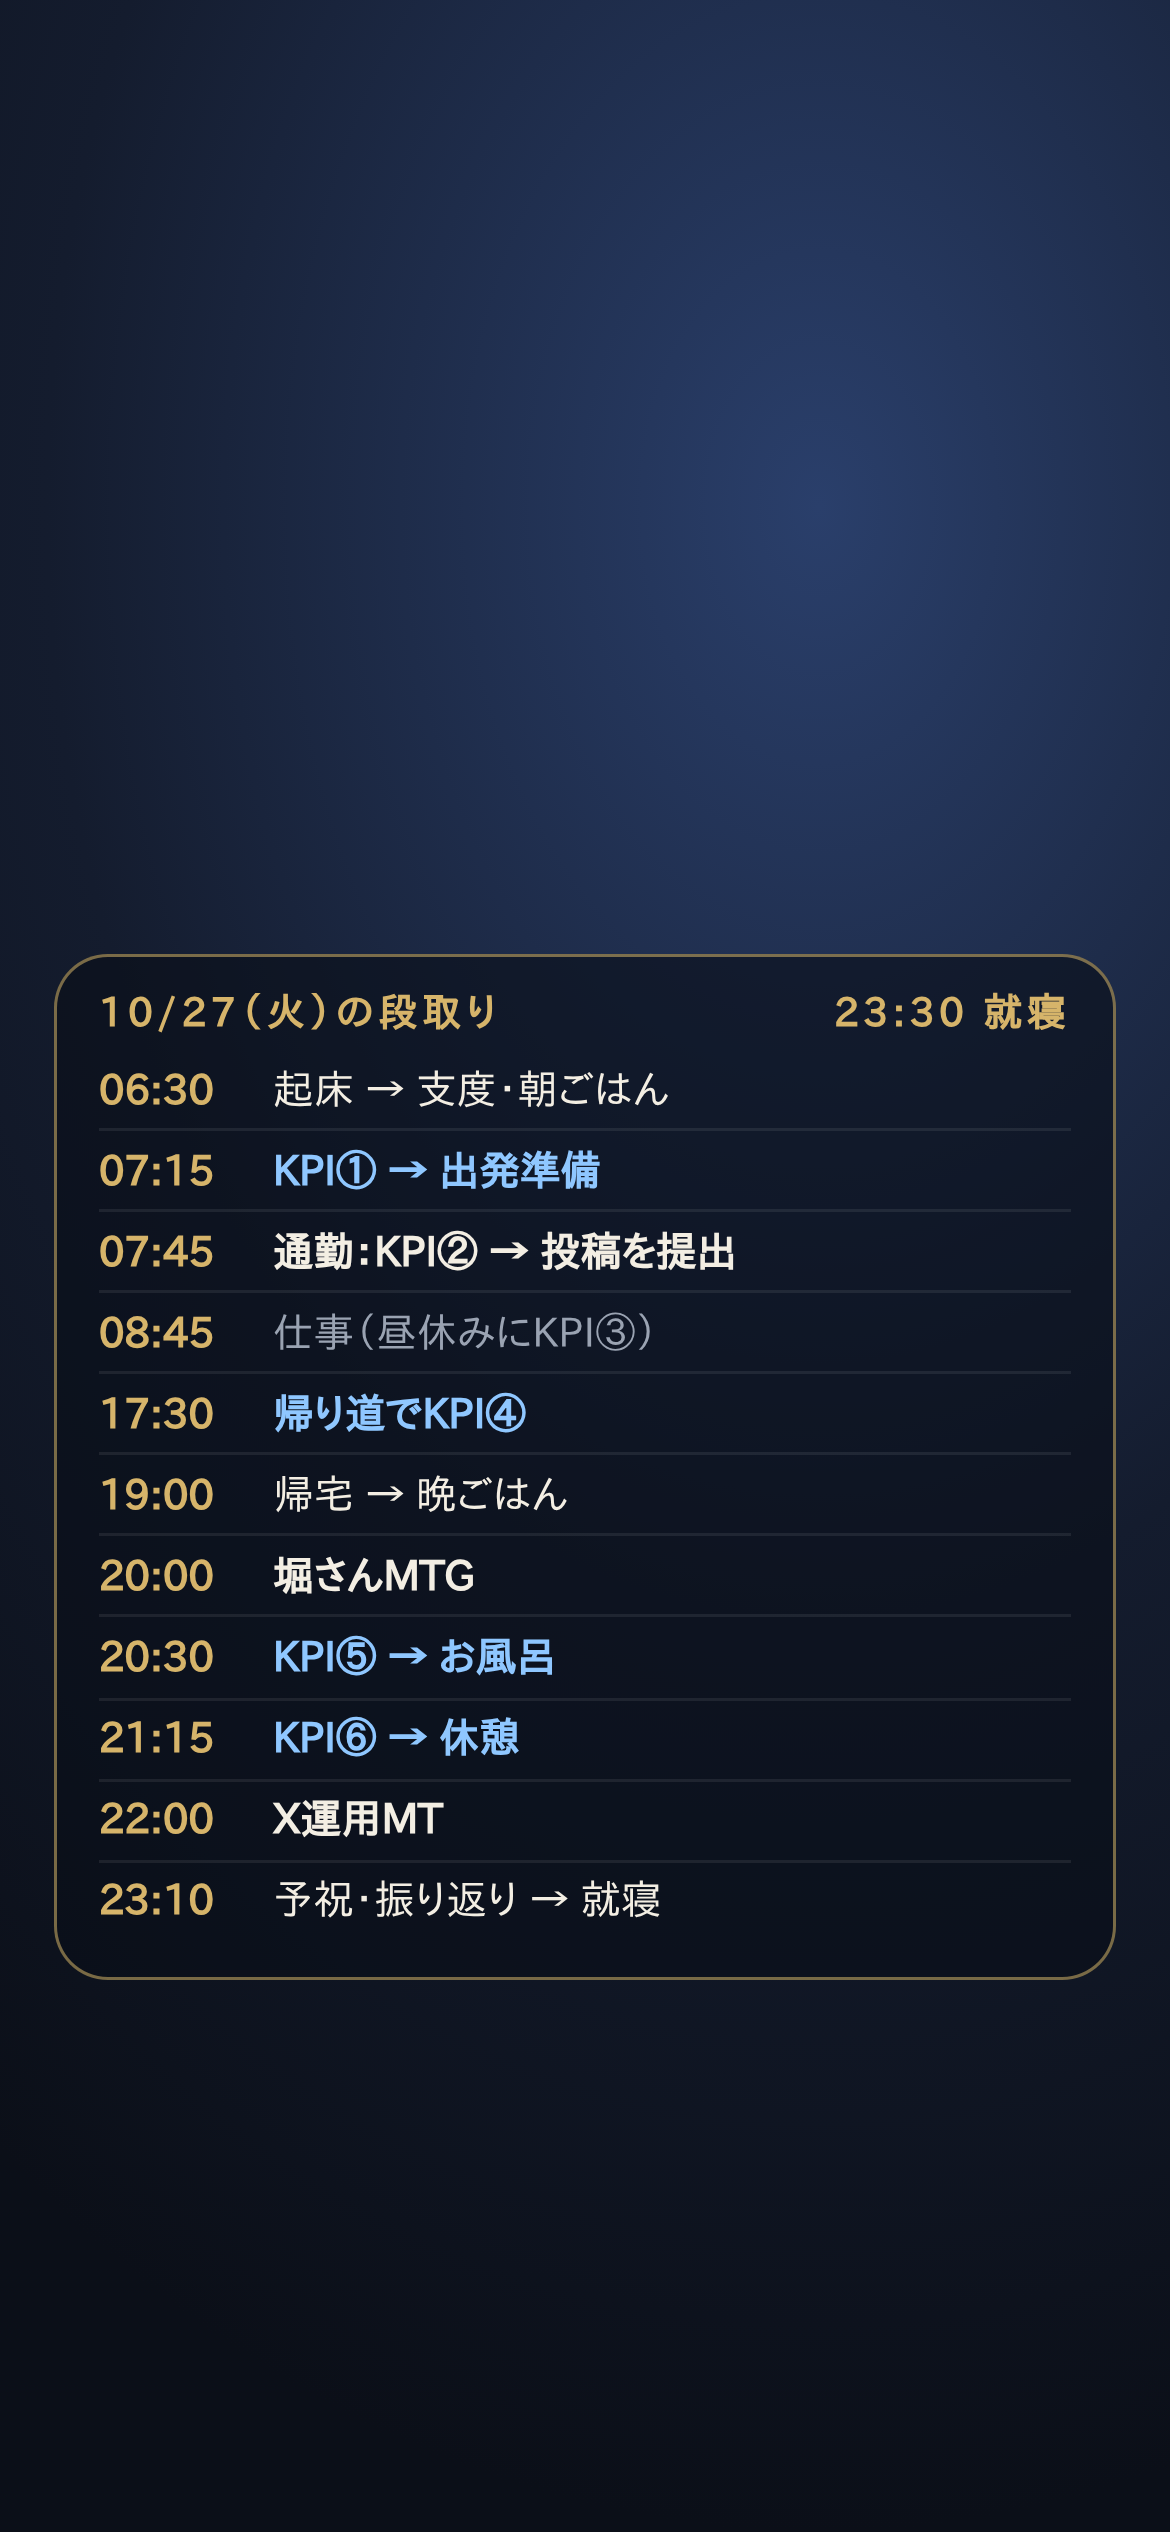
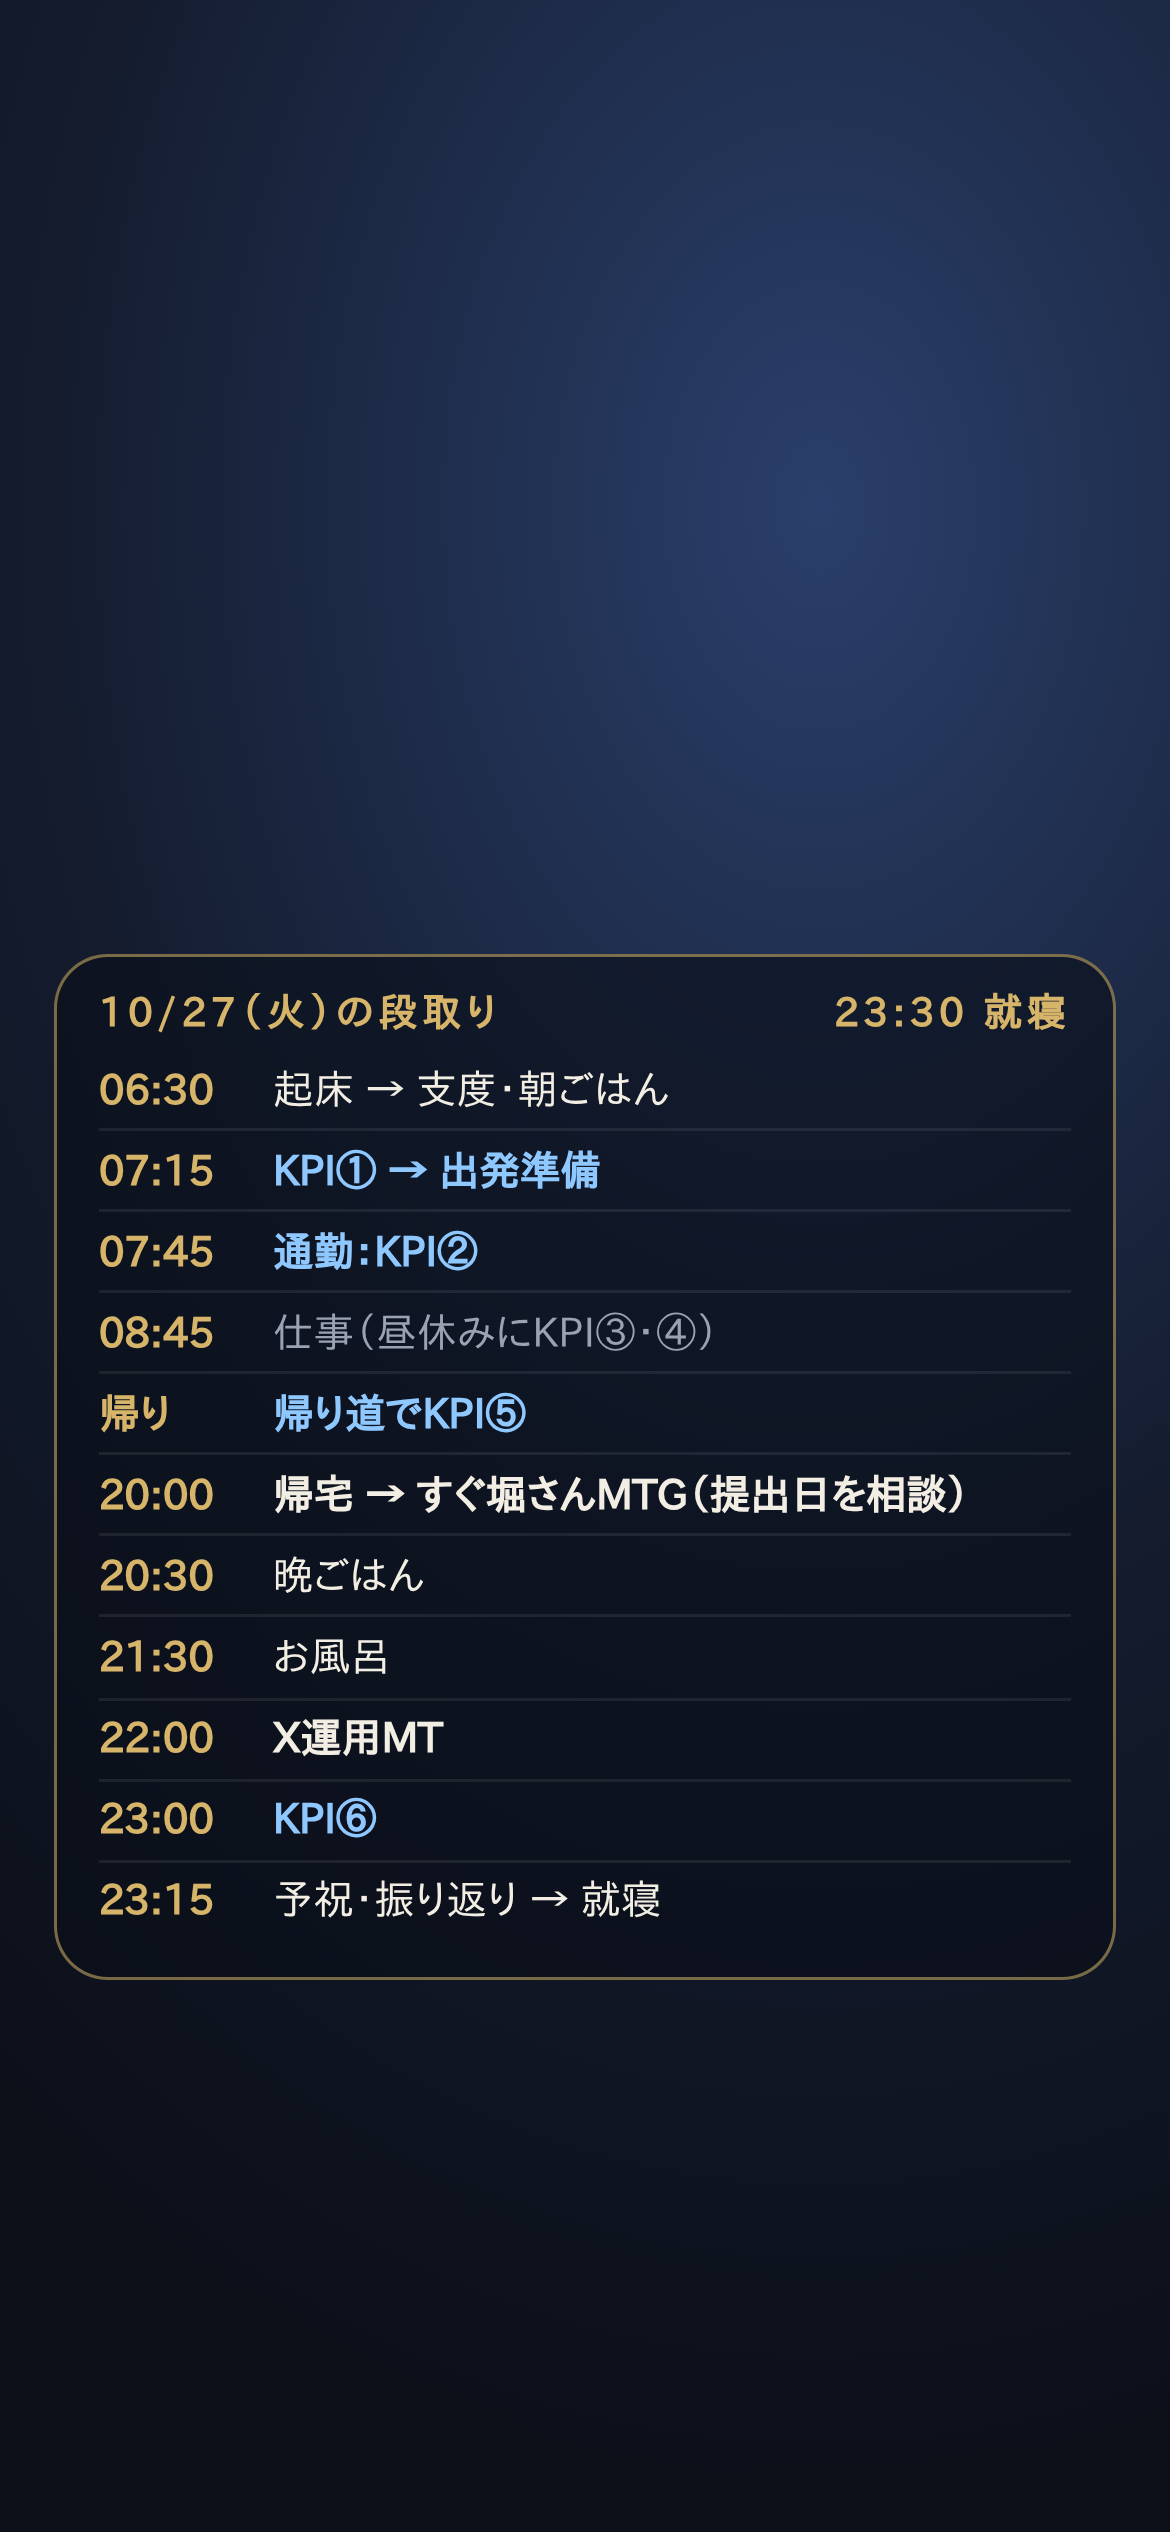
10/27 段取りを20時帰宅に合わせて更新、投稿提出日の相談を記録
Claude-Session: https://claude.ai/code/session_01U8582CXgJcTRPR8mqEQHmZ

diff --git a/secretary/brief/index.html b/secretary/brief/index.html
@@ -67,24 +67,24 @@ ul{list-style:none;margin:0;padding:0;display:flex;flex-direction:column;gap:2px
   "date": "2026-10-27",
   "label": "10/27（火）",
   "wake": "6:30",
-  "updated": "前夜22:00作成",
-  "lead": "朝に投稿を提出。夜は20時堀さん・22時X運用MT",
+  "updated": "10/26 夜に更新（20時帰宅）",
+  "lead": "夜は投稿の時間ゼロ。堀さんMTGで提出日を相談",
   "must": [
     {
-      "id": "post",
-      "label": "投稿（10/28分）を提出",
-      "note": "仕上げが残れば通勤中に",
-      "when": "朝の通勤"
+      "id": "ask",
+      "label": "堀さんに投稿の提出日を相談",
+      "note": "「10/28夜に提出」でよいか",
+      "when": "20:00"
     },
     {
       "id": "kpi",
       "label": "KPI 15フォロー・20リプ（6枠）",
-      "note": "",
+      "note": "昼休みに2枠",
       "when": "6枠"
     },
     {
       "id": "mtg",
-      "label": "20:00 堀さんMTG／22:00 X運用MT",
+      "label": "22:00 X運用MT",
       "note": "",
       "when": "夜"
     }
@@ -98,42 +98,42 @@ ul{list-style:none;margin:0;padding:0;display:flex;flex-direction:column;gap:2px
     },
     {
       "s": "07:45",
-      "e": "08:45",
-      "label": "通勤",
-      "task": "KPI②→投稿を提出",
-      "kind": "must"
-    },
-    {
-      "s": "08:45",
       "e": "17:30",
-      "label": "仕事",
-      "task": "昼休みにKPI③"
+      "label": "通勤KPI②→仕事",
+      "task": "昼休みにKPI③・④"
     },
     {
       "s": "17:30",
       "e": "20:00",
-      "label": "帰り道KPI④→晩ごはん",
-      "task": ""
+      "label": "帰り道でKPI⑤",
+      "task": "20時帰宅"
     },
     {
       "s": "20:00",
-      "e": "22:00",
+      "e": "20:30",
       "label": "堀さんMTG",
-      "task": "→KPI⑤・お風呂・KPI⑥"
+      "task": "提出日を相談",
+      "kind": "must"
+    },
+    {
+      "s": "20:30",
+      "e": "22:00",
+      "label": "晩ごはん→お風呂",
+      "task": ""
     },
     {
       "s": "22:00",
       "e": "23:30",
       "label": "X運用MT",
-      "task": "23:10 予祝→就寝"
+      "task": "23:00 KPI⑥→23:15 予祝"
     }
   ],
   "deadlines": [
     {
-      "d": "10/27（火）",
-      "label": "投稿（10/28分）提出",
-      "prep": "朝の通勤中に",
-      "days": 0
+      "d": "10/28（水）夜",
+      "label": "投稿を提出（相談後）",
+      "prep": "19時帰宅後に約2.5時間",
+      "days": 1
     },
     {
       "d": "10/31（土）20:00",
@@ -155,7 +155,7 @@ ul{list-style:none;margin:0;padding:0;display:flex;flex-direction:column;gap:2px
       "mins": 2
     }
   ],
-  "tomorrow": "<b>明日 10/28（水）</b> 8:45出勤。堀さんと投稿の修正日"
+  "tomorrow": "<b>明日 10/28（水）</b> 19時帰宅→投稿を仕上げて提出"
 }</script>
 
 <script>

diff --git a/secretary/tasks.md b/secretary/tasks.md
@@ -87,6 +87,8 @@
 | 👤 かよ社長の宿題 | 2時間 | 10/31（土）20:00 MTGかよさん | 10/11は見送り（代表判断）→ 10/20（火）夜1h → 10/21（水）夜1h |
 | 🤖 アウトプット会の解像度を上げる（担当: 戦略責任者） | 代表は確認15分 | — | 戦略責任者が「目的・対象・形式・初回案」の下書きを作成 → 10/22（木）帰りの電車で確認 |
 
+- 📌 10/26: 投稿（10/28分）が終わらず。10/27は20時帰宅で夜に作業時間なし → 20:00の堀さんMTGで「10/28（水）夜に提出」を相談（秘書の提案・代表の判断待ち）
+
 ### 2026-10-25 代表から共有（いま抱えているタスク）
 | タスク | 時間 | 期日 | いつやるか |
 |---|---|---|---|
